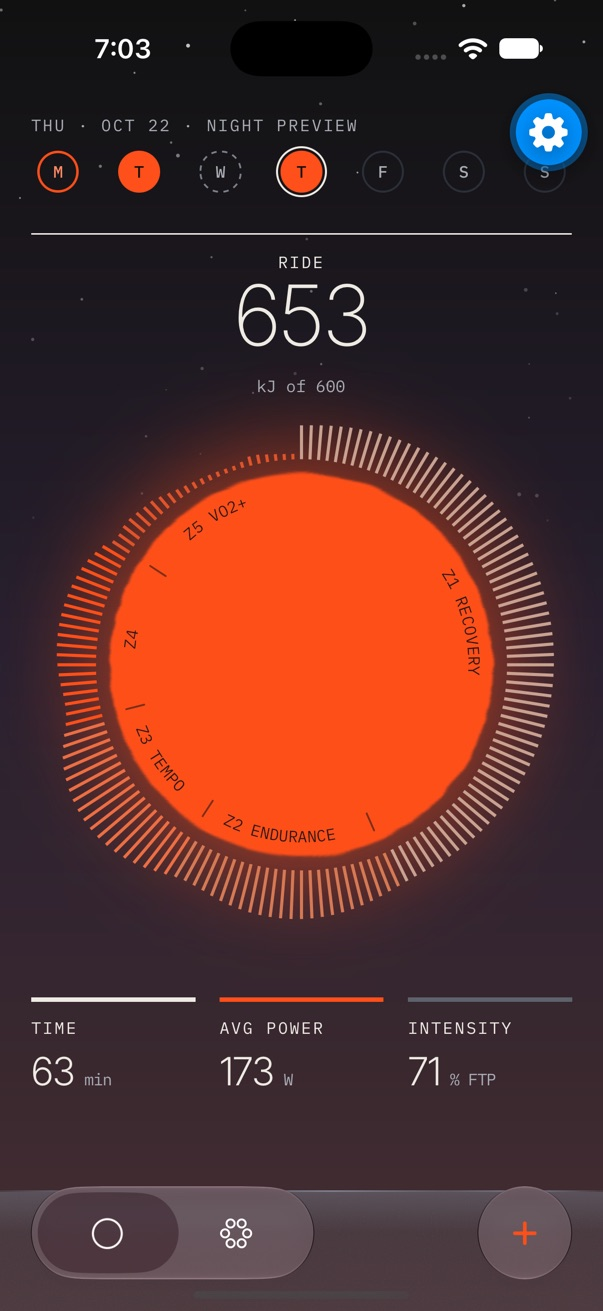
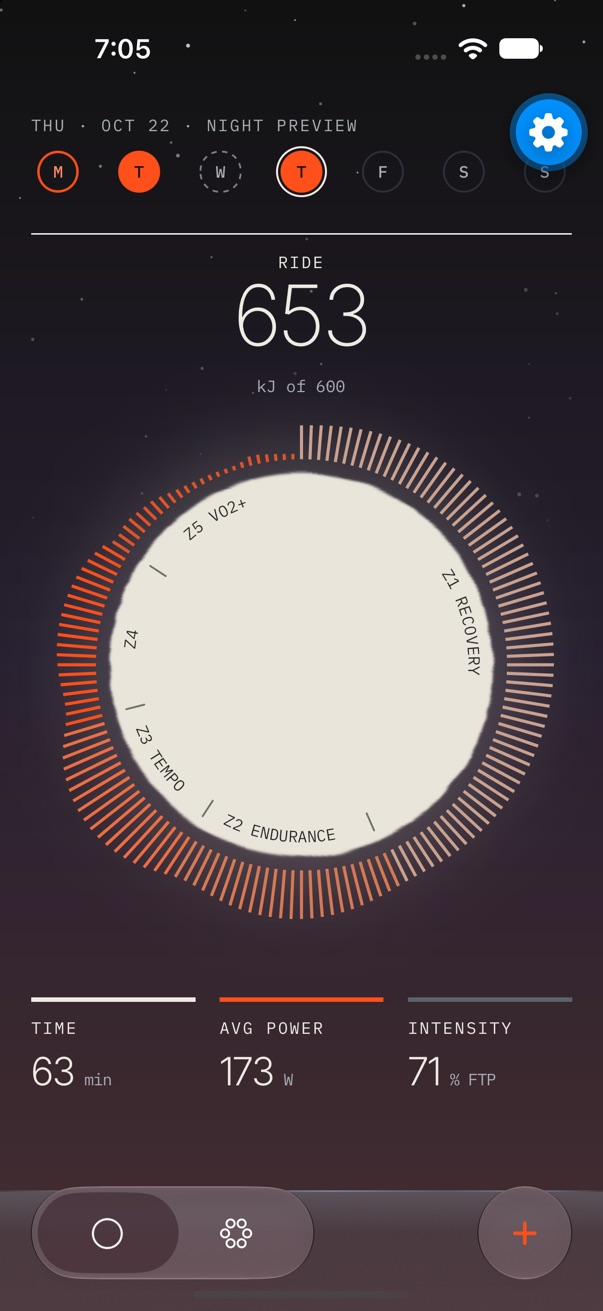
Night: the sun becomes the moon
A new sun token drives the disc, its halo and its reflection in the water.
It stays #FF4F1A at dawn, day and dusk; at night it is a warm white (#E9E5DA)
with a paler halo. Zone labels on the disc are already onOrange (#111), 15:1
on the moon.

Changed region(s): [[0.1194, 0.3051, 0.8955, 0.7018]]

diff --git a/src/components/today/SunCanvas.tsx b/src/components/today/SunCanvas.tsx
@@ -82,14 +82,14 @@ export function SunCanvas({ day, edge, s, width, height, headBottom, rowTop }: P
           {goalR > 0 && <Circle cx={CX} cy={CY} r={goalR} color={C.white} style="stroke" strokeWidth={2} />}
           {r > 0 && (
             <Group origin={vec(CX, CY)} transform={zoom}>
-              {/* After dark the sun keeps its orange and gains a soft halo, so it reads as the warm
-                  light source against the night sky. */}
+              {/* After dark the disc gains a soft halo. At dawn and dusk it stays the orange sun;
+                  at night `sun` turns it into the moon (still sized by the day's kJ). */}
               {sky.sunGlow > 0 && (
-                <Circle cx={CX} cy={CY} r={r + 18} color={C.orange} opacity={sky.sunGlow}>
+                <Circle cx={CX} cy={CY} r={r + 18} color={C.sun} opacity={sky.sunGlow}>
                   <Blur blur={28} />
                 </Circle>
               )}
-              <Circle cx={CX} cy={CY} r={r} color={C.orange}>
+              <Circle cx={CX} cy={CY} r={r} color={C.sun}>
                 <DisplacementMap channelX="r" channelY="g" scale={4}>
                   <FractalNoise freqX={fx} freqY={fy} octaves={2} seed={4} />
                 </DisplacementMap>

diff --git a/src/theme.ts b/src/theme.ts
@@ -14,6 +14,8 @@ const LIGHT = {
   line: '#CFCEC9',
   tile: 'rgba(17,17,17,0.05)', // translucent so the sky shows through
   orange: '#FF4F1A', // fills only
+  /** The sun disc, its halo and its reflection in the water. Orange, except at night (the moon). */
+  sun: '#FF4F1A',
   orangeText: '#AD3712', // orange for text: ≥4.5:1 on bg and frost
   peach: '#D06C49', // fat; ≥3:1 on the water pool where the rings sit
   tickOff: '#8D8B85', // empty ring ticks; ≥3:1 on the water pool
@@ -52,7 +54,8 @@ const DARK: Palette = {
   grey2: '#767B84',
   line: '#2A303A',
   tile: 'rgba(238,235,228,0.06)',
-  orange: '#FF4F1A', // the sun stays the same orange
+  orange: '#FF4F1A',
+  sun: '#FF4F1A',
   orangeText: '#FF8A63', // lighter for text on dark
   peach: '#E58A66',
   tickOff: '#8A94A2', // ≥3:1 on the night pool
@@ -144,8 +147,9 @@ export const SKIES: Record<Phase, Sky> = {
     positions: [0, 0.5, 1],
     frost: 'rgba(120,160,200,0.10)',
     veil: 'rgba(0,0,0,0)',
-    tokens: { grey2: '#7C818A' },
-    sunGlow: 0.5,
+    // At night the sun becomes the moon: a warm white disc, a pale halo and a white reflection.
+    tokens: { grey2: '#7C818A', sun: '#E9E5DA' },
+    sunGlow: 0.22,
     stars: 1,
   },
 };

diff --git a/src/components/today/FrostCanvas.tsx b/src/components/today/FrostCanvas.tsx
@@ -51,7 +51,7 @@ interface Props {
  */
 export function FrostCanvas({ edge, waterR, carbs, protein, fat, goals, dx, s, width, height }: Props) {
   const { C, sky } = useTheme();
-  const { orange, pool, glint, glintK } = C;
+  const { sun, pool, glint, glintK } = C;
   const line = [0, 0.95, 0.5, 1, 0.45, 0.9, 0].map((a) => withAlpha(glint, a * glintK));
   const t = useSharedValue(0);
   useEffect(() => {
@@ -64,7 +64,7 @@ export function FrostCanvas({ edge, waterR, carbs, protein, fat, goals, dx, s, w
   // The pool reflects the sun in orange at rest and when pulled down, and clears to white as the
   // frost rises, finishing just before the macro rings start drawing (they need the white to read).
   const waterColor = useDerivedValue(() =>
-    interpolateColor(ramp(progress(edge.value), 0.5, 0.56), [0, 1], [orange, pool]),
+    interpolateColor(ramp(progress(edge.value), 0.5, 0.56), [0, 1], [sun, pool]),
   );
   const hl = useDerivedValue(() => Skia.XYWHRect(0, edge.value - 1, 390, 2));
   const glow = useDerivedValue(() => Skia.XYWHRect(0, edge.value + 1, 390, 26));
